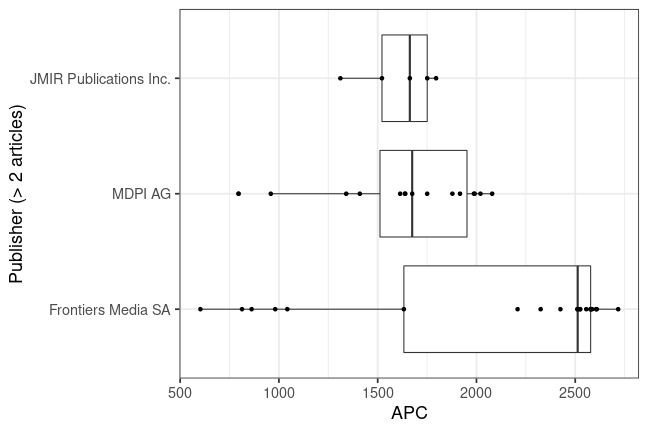
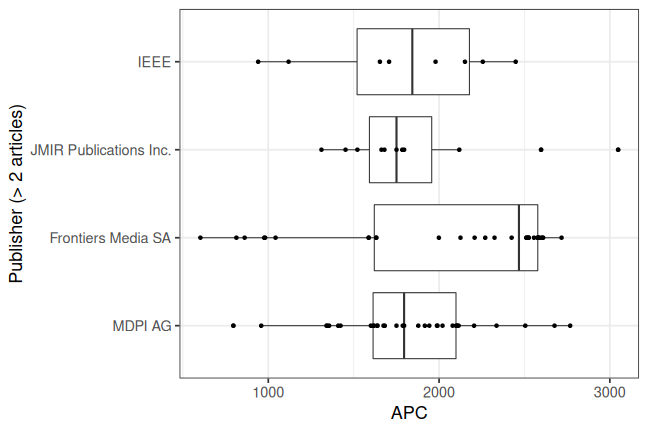
update: Sweden data

diff --git a/_posts/2023-02-17-sweden.md b/_posts/2023-02-17-sweden.md
@@ -2,8 +2,8 @@
 layout:     post
 author:     Julia Bartlewski
 author_lnk: https://github.com/jbartlewski
-title:      The National Library of Sweden provides APC data for the Linköping University
-date:       2023-02-17 10:00:00
+title:      The National Library of Sweden provides 2022 APC data for 3 institutions
+date:       2023-02-17 11:00:00
 summary:    
 categories: [general, openAPC]
 comments: true
@@ -13,7 +13,7 @@ comments: true
 
 The [National Library of Sweden](https://www.kb.se/in-english.html) collects data on APC expenditures from universities and other research institutions in Sweden. 
 
-APC expenditures for the Linköping University have now been made available to OpenAPC.
+APC expenditures for the universities of Linköping, Mälardalen and Halmstad have now been made available to OpenAPC.
 
 Contact person for the National Library is [Camilla Lindelöw](mailto:openaccess@kb.se).
 
@@ -21,7 +21,7 @@ Contact person for the National Library is [Camilla Lindelöw](mailto:openaccess
 
 
 
-The new data set provided by the National Library covers publication fees for 52 articles. Total expenditure amounts to 99 670€ and the average fee is 1 917€.
+The new data set provided by the National Library covers publication fees for 102 articles. Total expenditure amounts to 192 389€ and the average fee is 1 886€.
 
 
 ## Overview
@@ -31,20 +31,28 @@ A detailed analysis of the contributed data sets provides the following overview
 ### Breakdown by publisher
 
 
-|                                                | Articles| Fees paid in EURO| Mean Fee paid|
-|:-----------------------------------------------|--------:|-----------------:|-------------:|
-|Frontiers Media SA                              |       21|             43771|          2084|
-|MDPI AG                                         |       15|             24694|          1646|
-|JMIR Publications Inc.                          |        5|              8042|          1608|
-|IEEE                                            |        2|              3099|          1549|
-|Ovid Technologies (Wolters Kluwer Health)       |        2|              6248|          3124|
-|AIP Publishing                                  |        1|              1285|          1285|
-|American Medical Association (AMA)              |        1|              1759|          1759|
-|Det Kgl. Bibliotek/Royal Danish Library         |        1|               336|           336|
-|eLife Sciences Publications, Ltd                |        1|              2629|          2629|
-|Elsevier BV                                     |        1|              2062|          2062|
-|MIT Press - Journals                            |        1|              1398|          1398|
-|Proceedings of the National Academy of Sciences |        1|              4349|          4349|
+|                                                            | Articles| Fees paid in EURO| Mean Fee paid|
+|:-----------------------------------------------------------|--------:|-----------------:|-------------:|
+|MDPI AG                                                     |       33|             60163|          1823|
+|Frontiers Media SA                                          |       32|             66231|          2070|
+|JMIR Publications Inc.                                      |       11|             20723|          1884|
+|IEEE                                                        |        8|             14256|          1782|
+|Det Kgl. Bibliotek/Royal Danish Library                     |        2|               692|           346|
+|Ovid Technologies (Wolters Kluwer Health)                   |        2|              6248|          3124|
+|AIP Publishing                                              |        1|              1285|          1285|
+|American Medical Association (AMA)                          |        1|              1759|          1759|
+|American Psychological Association (APA)                    |        1|              2790|          2790|
+|BMJ                                                         |        1|              1558|          1558|
+|Bristol University Press                                    |        1|              1754|          1754|
+|eLife Sciences Publications, Ltd                            |        1|              2629|          2629|
+|Elsevier BV                                                 |        1|              2062|          2062|
+|Informa UK Limited                                          |        1|              1630|          1630|
+|International Council of Associations for Science Education |        1|                53|            53|
+|MIT Press - Journals                                        |        1|              1398|          1398|
+|Proceedings of the National Academy of Sciences             |        1|              4349|          4349|
+|SAGE Publications                                           |        1|               279|           279|
+|Stockholm University Press                                  |        1|               494|           494|
+|World Scientific Pub Co Pte Lt                              |        1|              2036|          2036|
 
 ### Fees paid per publisher (in EURO)
 
